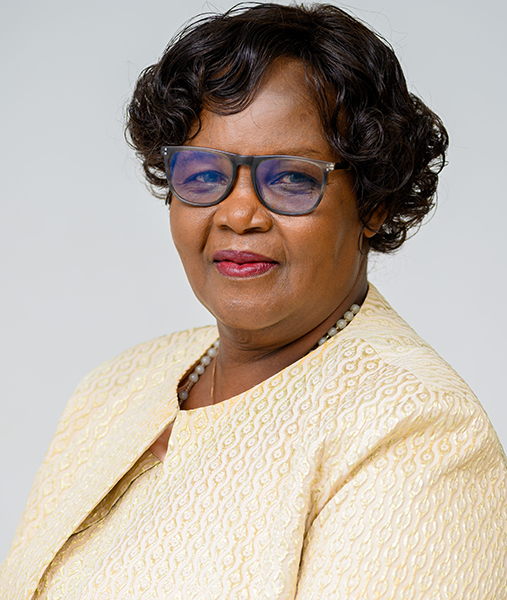
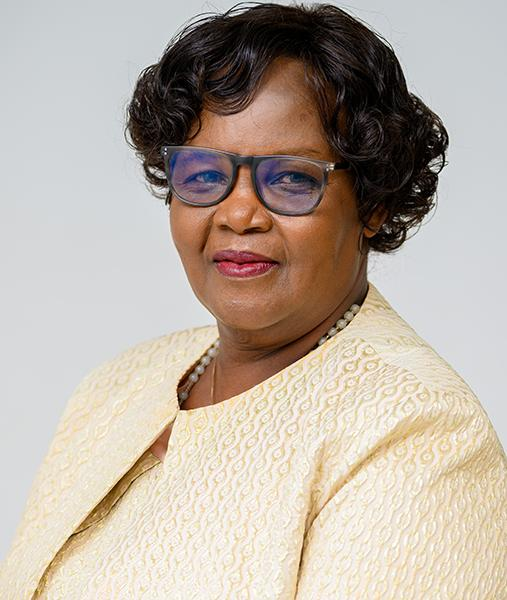
feat: rank 2 - compress images, add sizes, lazy loading, bp() paths

diff --git a/src/app/about-us/board-of-directors/page.tsx b/src/app/about-us/board-of-directors/page.tsx
@@ -1,51 +1,23 @@
-import type { Metadata } from "next";
+import type { Metadata } from "next";
 import Image from "next/image";
 import PageHeader from "@/components/sections/PageHeader";
 import Breadcrumb from "@/components/ui/Breadcrumb";
+import { bp } from "@/lib/basePath";
 
 export const metadata: Metadata = {
   title: "Board of Directors | MACRA",
-  description:
-    "Meet the Board of Directors of the Malawi Communications Regulatory Authority.",
+  description: "Meet the Board of Directors of the Malawi Communications Regulatory Authority.",
 };
 
-interface BoardMember {
-  name: string;
-  title: string;
-  image: string;
-}
+interface BoardMember { name: string; title: string; image: string; }
 
 const boardMembers: BoardMember[] = [
-  {
-    name: "Counsel Chancy Gondwe",
-    title: "Board Chairperson",
-    image: "/images/board/board-chair.jpg",
-  },
-  {
-    name: "Mr. Andrew Kumbatira",
-    title: "Board Member",
-    image: "/images/board/board-member-2.jpg",
-  },
-  {
-    name: "Mrs. Mary Mpanga",
-    title: "Board Member",
-    image: "/images/board/board-member-3.jpg",
-  },
-  {
-    name: "Rev. Gervazio Namba",
-    title: "Board Member",
-    image: "/images/board/board-member-4.jpg",
-  },
-  {
-    name: "Mr. Shindi Mwala",
-    title: "Board Member",
-    image: "/images/board/board-member-5.jpg",
-  },
-  {
-    name: "Dr. Innocent Kafodya",
-    title: "Board Member",
-    image: "/images/board/board-member-6.jpg",
-  },
+  { name: "Counsel Chancy Gondwe", title: "Board Chairperson", image: "/images/board/board-chair.jpg" },
+  { name: "Mr. Andrew Kumbatira", title: "Board Member", image: "/images/board/board-member-2.jpg" },
+  { name: "Mrs. Mary Mpanga", title: "Board Member", image: "/images/board/board-member-3.jpg" },
+  { name: "Rev. Gervazio Namba", title: "Board Member", image: "/images/board/board-member-4.jpg" },
+  { name: "Mr. Shindi Mwala", title: "Board Member", image: "/images/board/board-member-5.jpg" },
+  { name: "Dr. Innocent Kafodya", title: "Board Member", image: "/images/board/board-member-6.jpg" },
 ];
 
 export default function BoardOfDirectorsPage() {
@@ -53,34 +25,28 @@ export default function BoardOfDirectorsPage() {
     <main>
       <PageHeader title="Board of Directors" />
       <div className="max-w-7xl mx-auto px-4 py-4">
-        <Breadcrumb
-          items={[
-            { label: "Home", href: "/" },
-            { label: "About Us", href: "/about-us/organisation" },
-            { label: "Board of Directors" },
-          ]}
-        />
+        <Breadcrumb items={[
+          { label: "Home", href: "/" },
+          { label: "About Us", href: "/about-us/organisation" },
+          { label: "Board of Directors" },
+        ]} />
       </div>
-
       <section className="max-w-7xl mx-auto px-4 py-10">
         <div className="grid grid-cols-1 sm:grid-cols-2 lg:grid-cols-3 gap-8">
           {boardMembers.map((member) => (
-            <div
-              key={member.name}
-              className="bg-white rounded-lg shadow-sm border border-gray-100 overflow-hidden text-center"
-            >
+            <div key={member.name} className="bg-white rounded-lg shadow-sm border border-gray-100 overflow-hidden text-center">
               <div className="relative w-full h-64">
                 <Image
-                  src={member.image}
+                  src={bp(member.image)}
                   alt={member.name}
                   fill
+                  sizes="(max-width: 640px) 100vw, (max-width: 1024px) 50vw, 33vw"
                   className="object-cover object-top"
+                  loading="lazy"
                 />
               </div>
               <div className="p-5">
-                <h3 className="text-lg font-semibold text-[#003087]">
-                  {member.name}
-                </h3>
+                <h3 className="text-lg font-semibold text-[#003087]">{member.name}</h3>
                 <p className="text-sm text-gray-500 mt-1">{member.title}</p>
               </div>
             </div>

diff --git a/src/app/about-us/management/page.tsx b/src/app/about-us/management/page.tsx
@@ -1,13 +1,13 @@
-import type { Metadata } from "next";
+import type { Metadata } from "next";
 import Image from "next/image";
 import PageHeader from "@/components/sections/PageHeader";
 import Breadcrumb from "@/components/ui/Breadcrumb";
 import { managementMembers } from "@/data/management";
+import { bp } from "@/lib/basePath";
 
 export const metadata: Metadata = {
   title: "Management | MACRA",
-  description:
-    "Meet the management team of the Malawi Communications Regulatory Authority.",
+  description: "Meet the management team of the Malawi Communications Regulatory Authority.",
 };
 
 export default function ManagementPage() {
@@ -15,34 +15,28 @@ export default function ManagementPage() {
     <main>
       <PageHeader title="Management" />
       <div className="max-w-7xl mx-auto px-4 py-4">
-        <Breadcrumb
-          items={[
-            { label: "Home", href: "/" },
-            { label: "About Us", href: "/about-us/organisation" },
-            { label: "Management" },
-          ]}
-        />
+        <Breadcrumb items={[
+          { label: "Home", href: "/" },
+          { label: "About Us", href: "/about-us/organisation" },
+          { label: "Management" },
+        ]} />
       </div>
-
       <section className="max-w-7xl mx-auto px-4 py-10">
         <div className="grid grid-cols-1 sm:grid-cols-2 lg:grid-cols-3 gap-8">
           {managementMembers.map((member) => (
-            <div
-              key={member.name}
-              className="bg-white rounded-lg shadow-sm border border-gray-100 overflow-hidden text-center"
-            >
+            <div key={member.name} className="bg-white rounded-lg shadow-sm border border-gray-100 overflow-hidden text-center">
               <div className="relative w-full h-64">
                 <Image
-                  src={member.image}
+                  src={bp(member.image)}
                   alt={member.name}
                   fill
+                  sizes="(max-width: 640px) 100vw, (max-width: 1024px) 50vw, 33vw"
                   className="object-cover object-top"
+                  loading="lazy"
                 />
               </div>
               <div className="p-5">
-                <h3 className="text-lg font-semibold text-[#003087]">
-                  {member.name}
-                </h3>
+                <h3 className="text-lg font-semibold text-[#003087]">{member.name}</h3>
                 <p className="text-sm text-gray-500 mt-1">{member.title}</p>
               </div>
             </div>

diff --git a/src/components/layout/Header.tsx b/src/components/layout/Header.tsx
@@ -17,6 +17,7 @@ export default function Header() {
               width={200}
               height={60}
               priority
+              sizes="200px"
             />
           </Link>
         </div>
